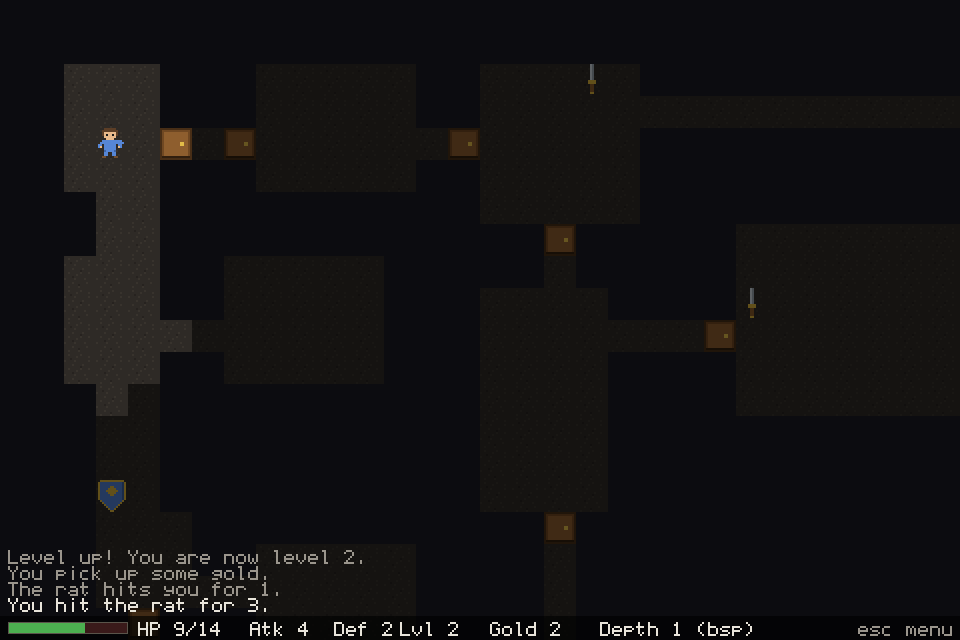
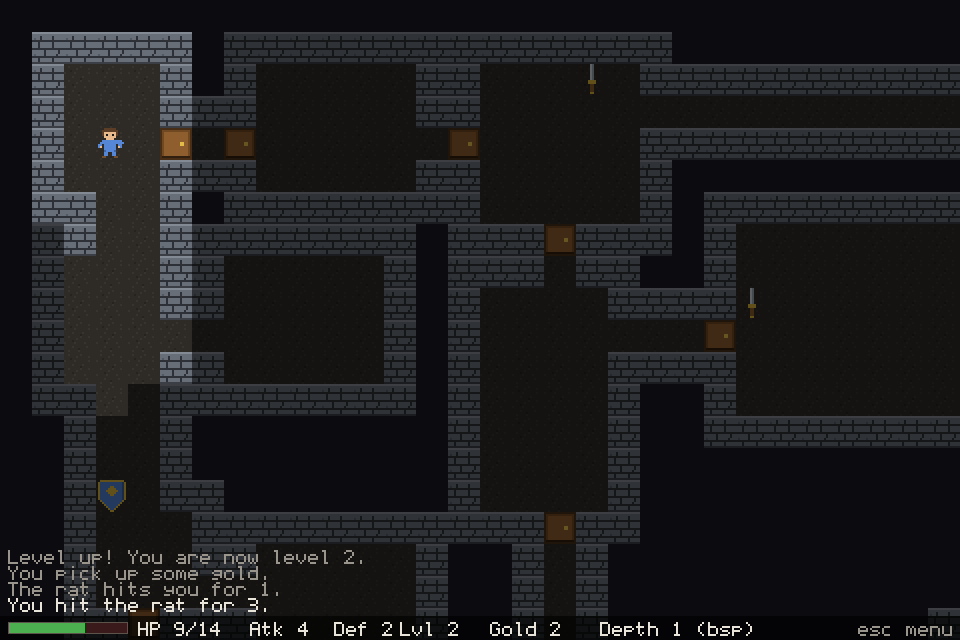
Fix screenshot explored walls and regenerate screenshots

diff --git a/tools/make-screenshots.ts b/tools/make-screenshots.ts
@@ -187,11 +187,36 @@ function renderGameplay(data: Buffer, showMenu: boolean): void {
   player.def = 2;
 
   const dist = bfsDistances(map.cells, map.spawn);
+  const visible = computeFOV(map, player.x, player.y);
   const explored = new Set<number>();
   for (let i = 0; i < dist.length; i++) {
     if (dist[i] !== -1) explored.add(i);
   }
-  const visible = computeFOV(map, player.x, player.y);
+  for (const k of visible) explored.add(k);
+
+  const knownFloors = [...explored];
+  for (const k of knownFloors) {
+    const x = k % MAP_W;
+    const y = Math.floor(k / MAP_W);
+    if (map.cells[y]?.[x] !== "floor") continue;
+    for (const [dx, dy] of [
+      [1, 0],
+      [-1, 0],
+      [0, 1],
+      [0, -1],
+      [1, 1],
+      [1, -1],
+      [-1, 1],
+      [-1, -1],
+    ] as [number, number][]) {
+      const nx = x + dx;
+      const ny = y + dy;
+      if (nx < 0 || ny < 0 || nx >= MAP_W || ny >= MAP_H) continue;
+      const nk = ny * MAP_W + nx;
+      if (map.cells[ny]![nx] !== "floor") explored.add(nk);
+    }
+  }
+
   const cam = camera(player);
 
   for (let vy = 0; vy < VIEW_ROWS; vy++) {
